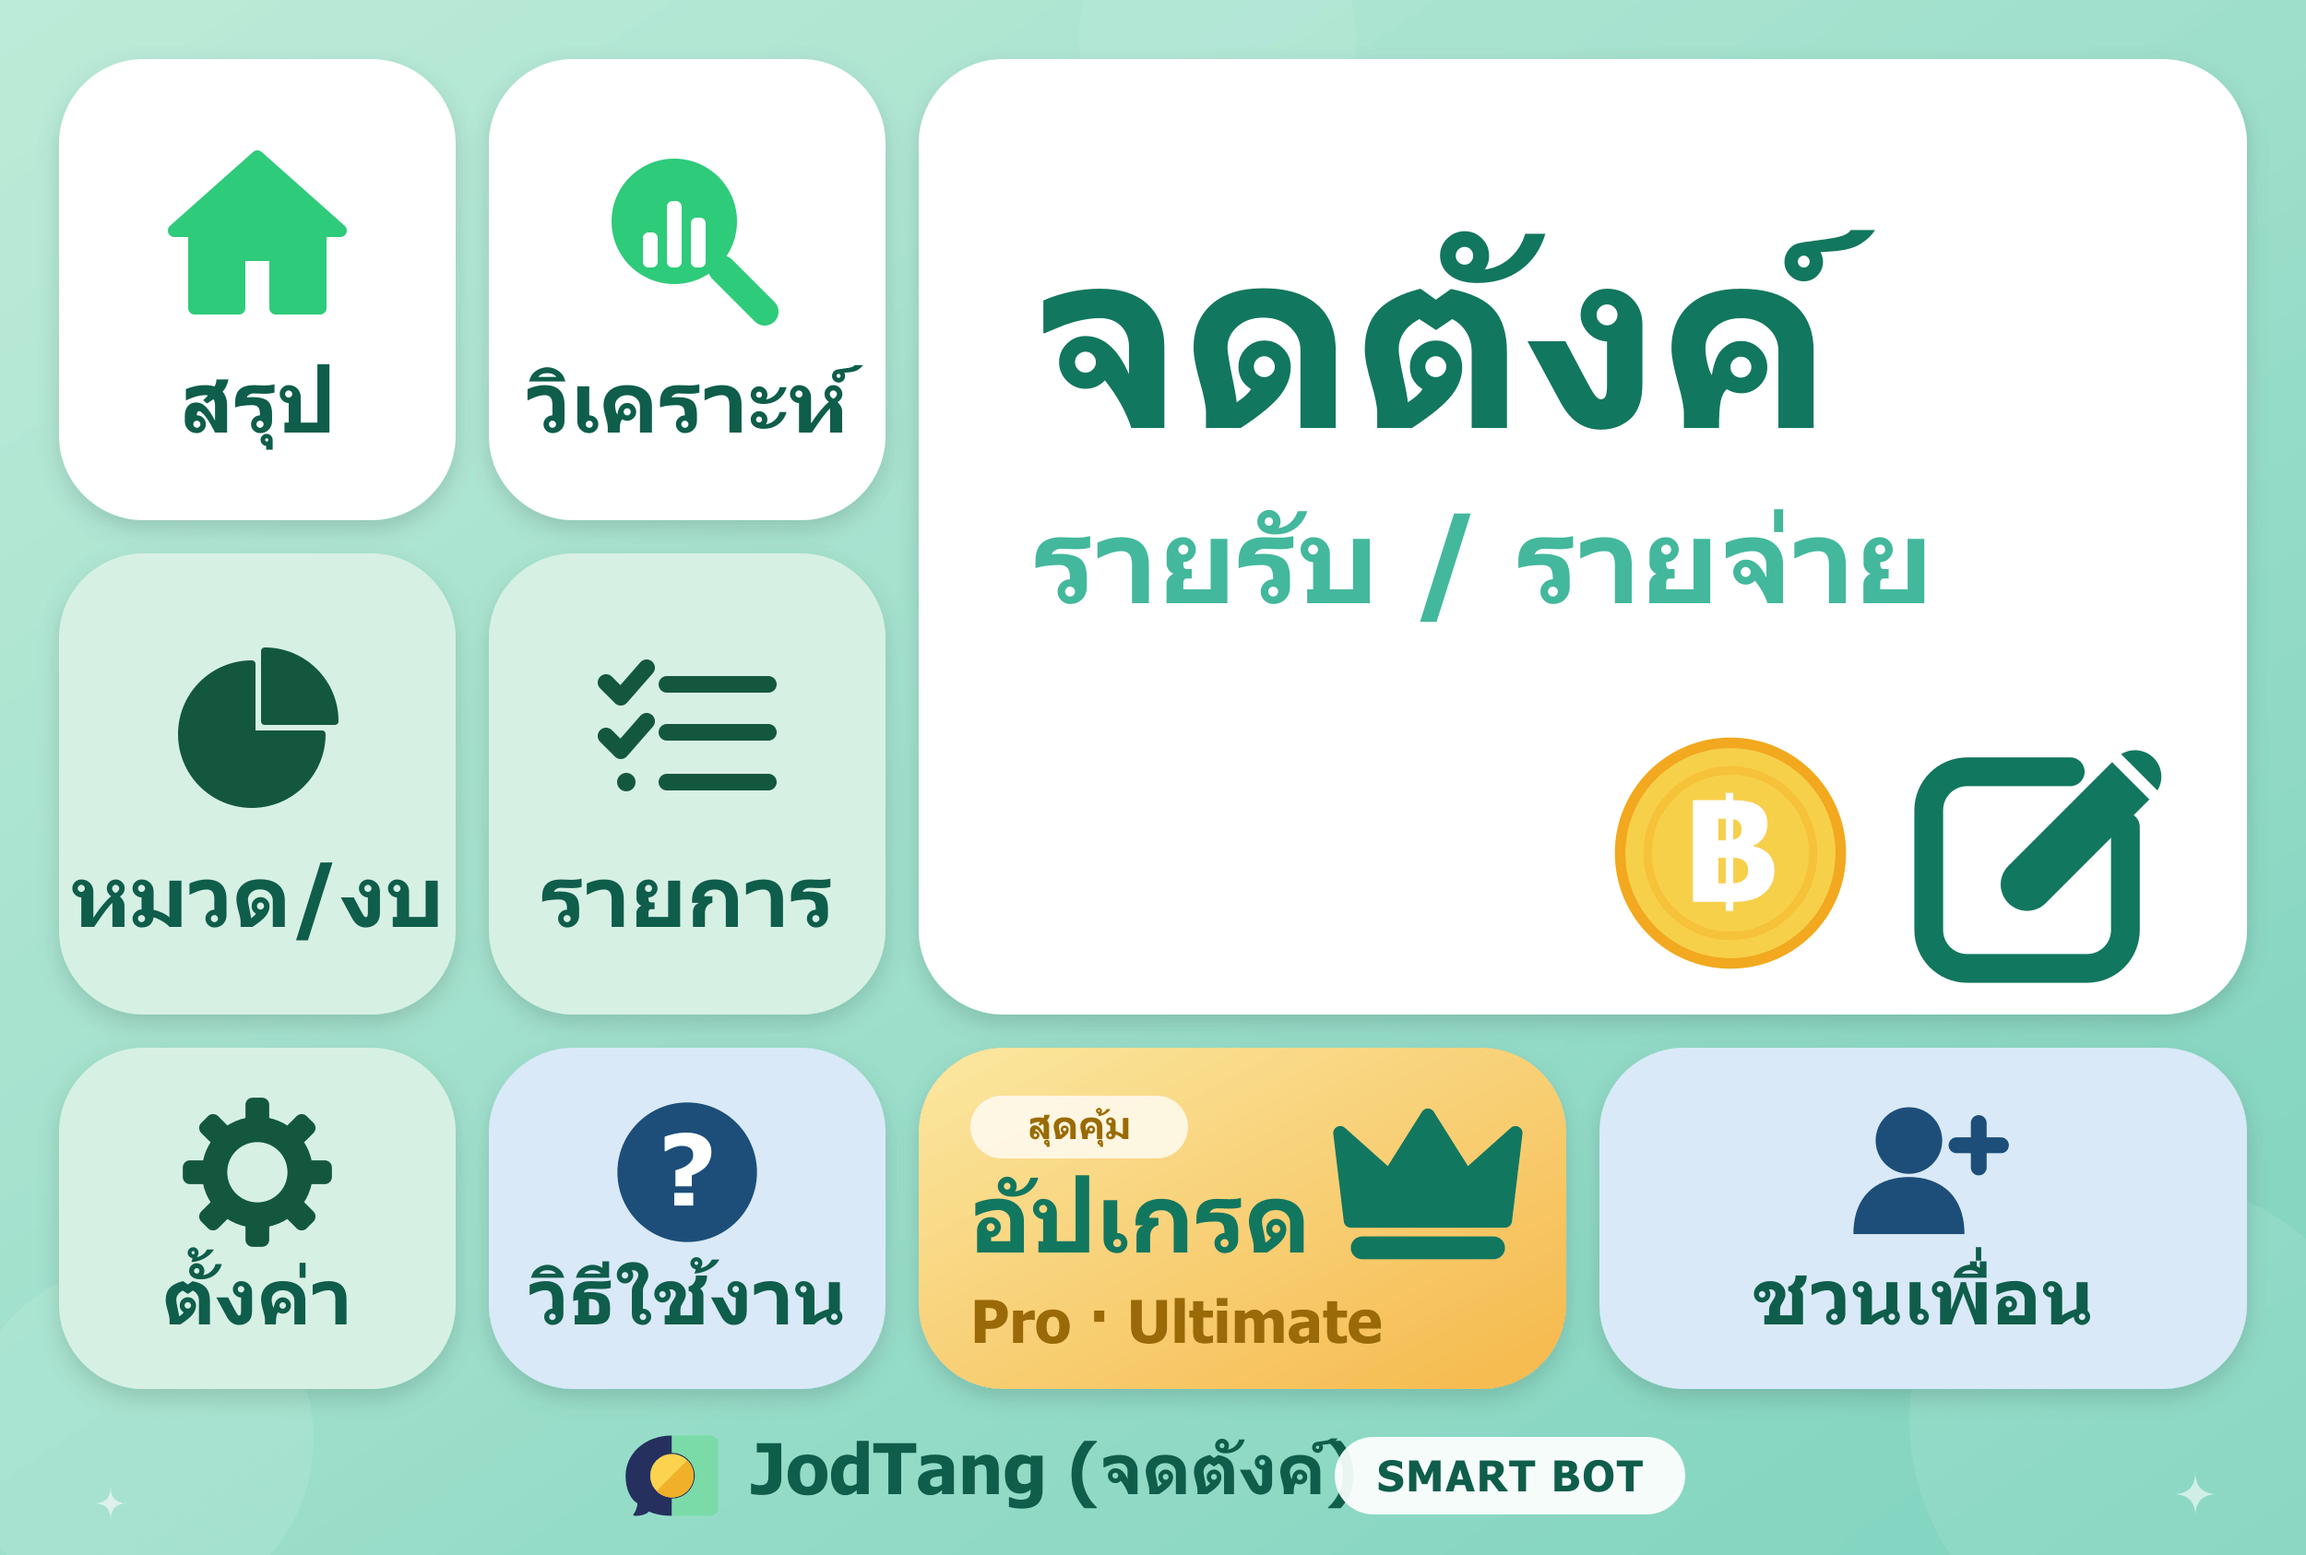
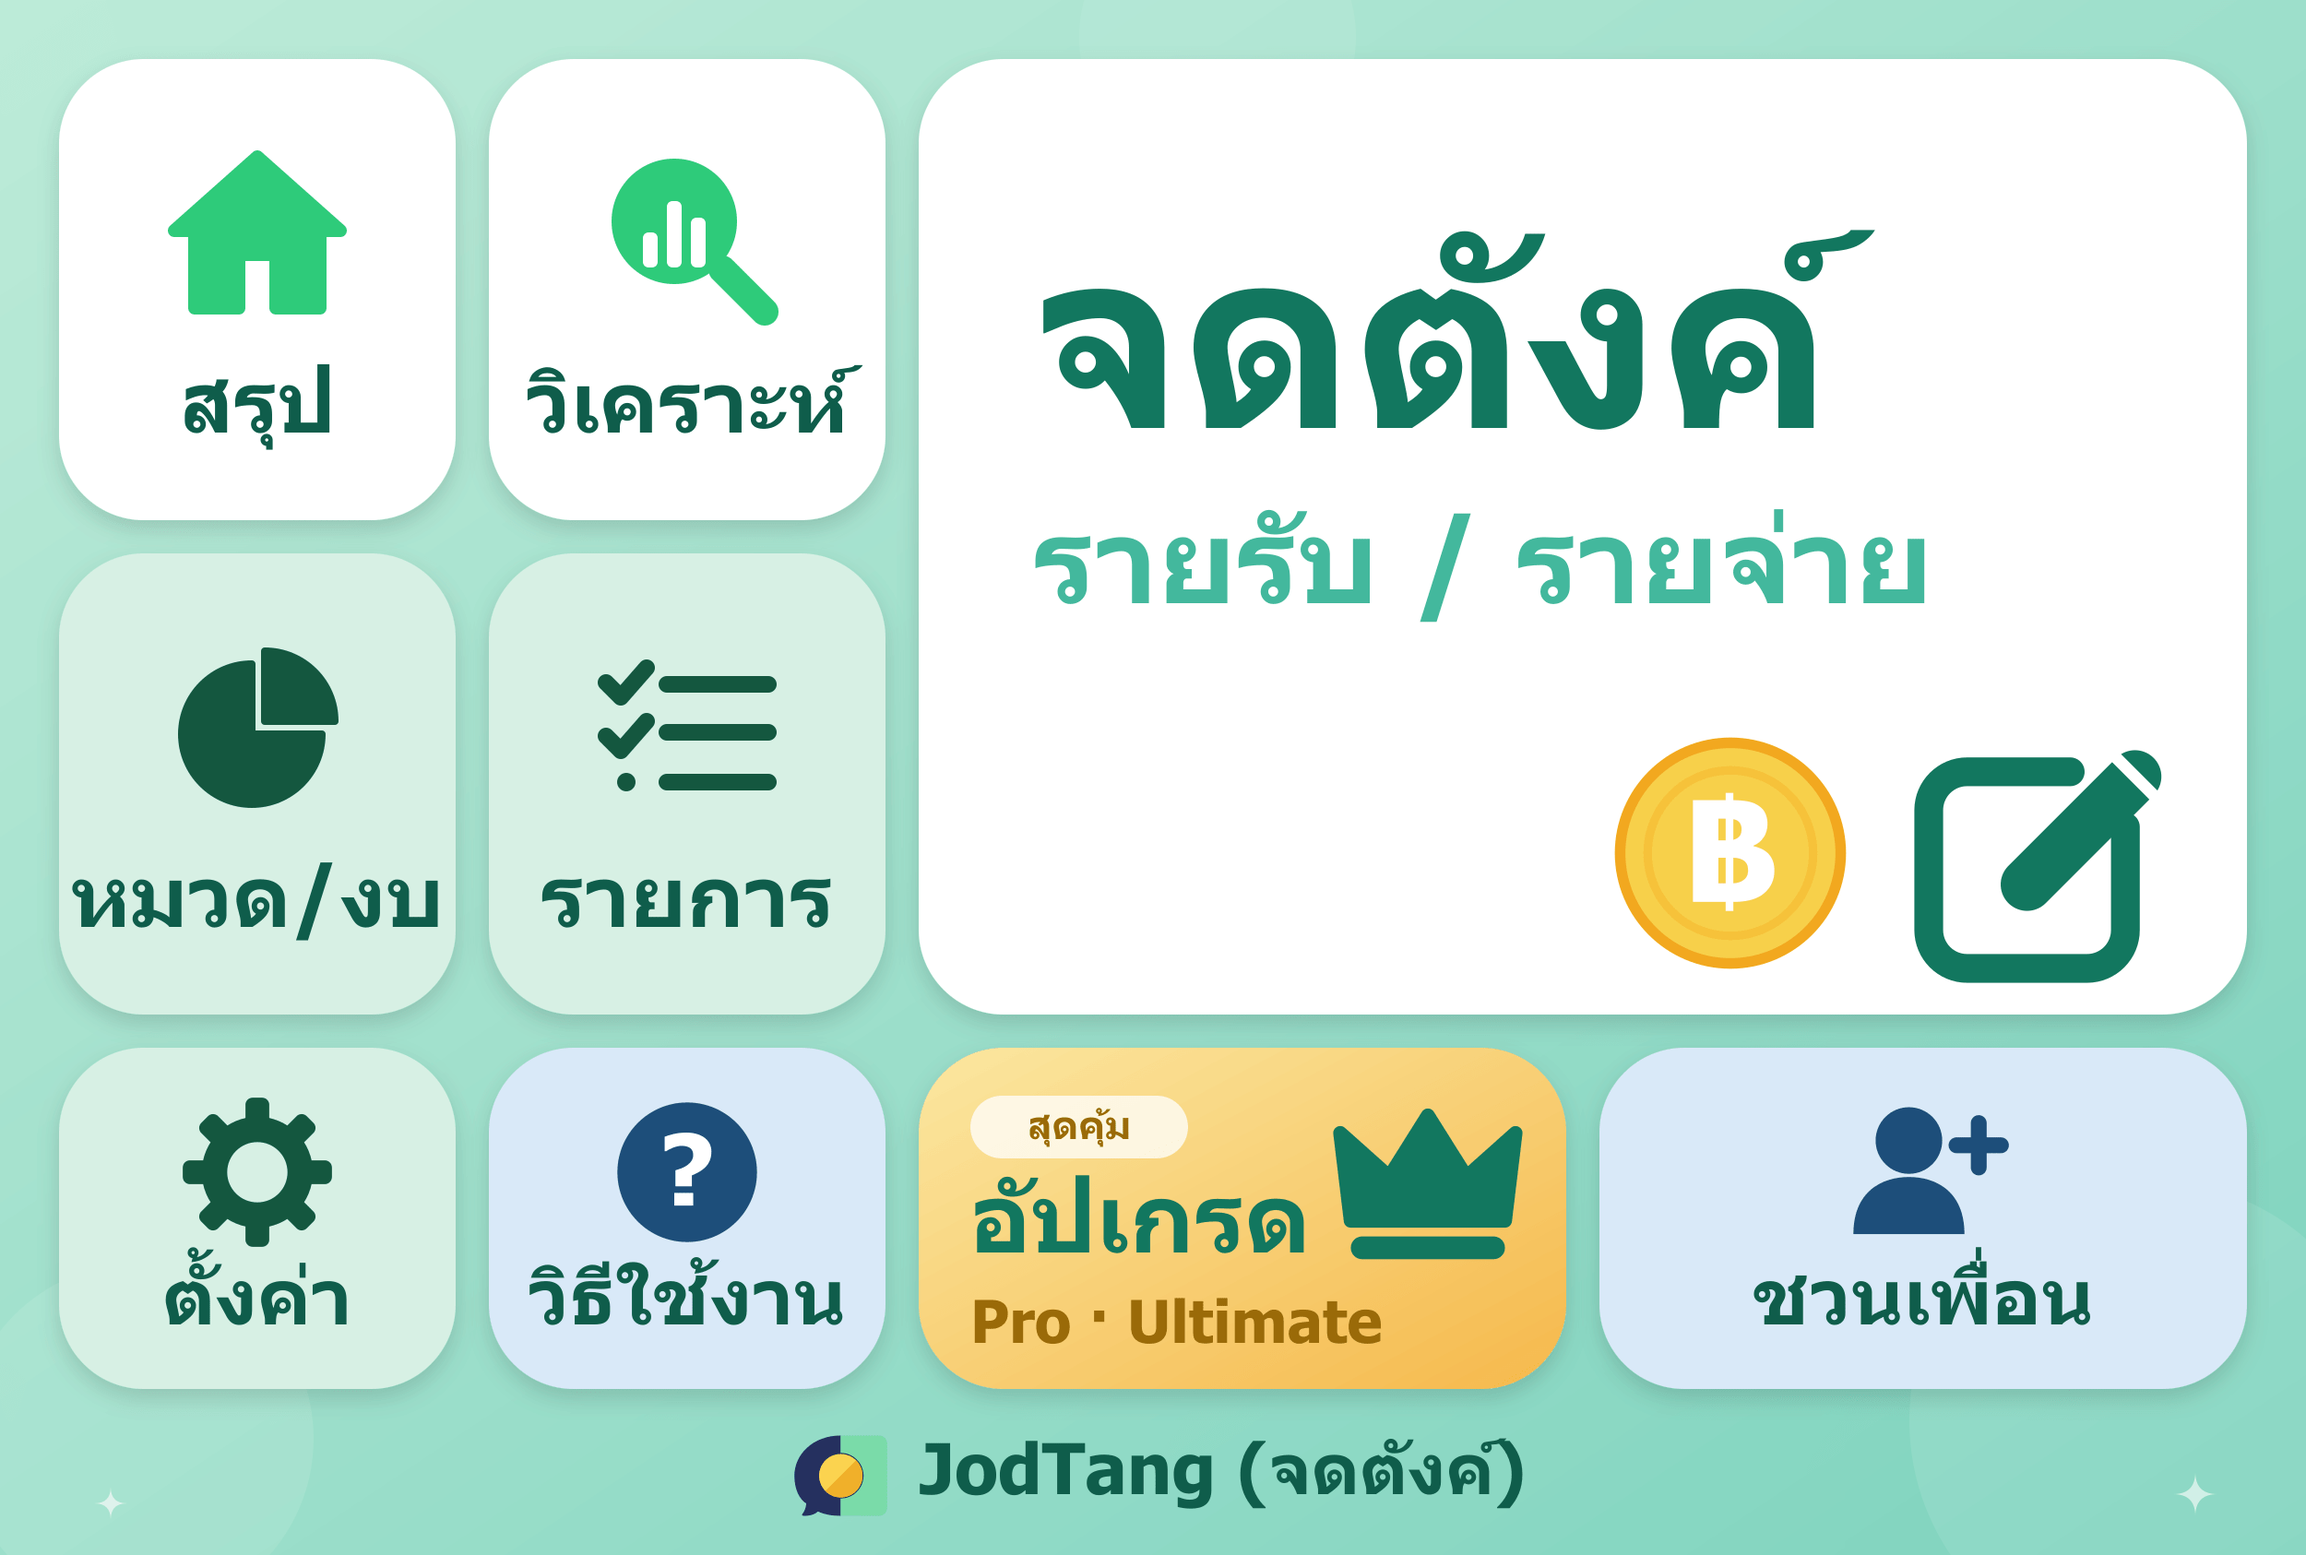
fix(richmenu): drop the SMART BOT pill from the menu image and centre the footer
The image is re-rendered; run 'pnpm richmenu --replace' to publish it.

Changed region(s): [[0.2496, 0.9253, 0.7488, 0.987]]

diff --git a/scripts/richmenu-design.ts b/scripts/richmenu-design.ts
@@ -254,11 +254,9 @@ export function buildRichMenuSvg(): string {
     small("invite", C.skyTile, "invite", "ชวนเพื่อน", true),
   ];
   parts.push(
-    // footer: logo + name + pill, centred as one group
-    logoMark(672, 1544, 112),
-    `<text x="814" y="1620" font-family="${FONT}" font-size="76" font-weight="800" fill="${C.ink}">JodTang (จดตังค์)</text>`,
-    `<rect x="1447" y="1558" width="380" height="84" rx="42" fill="${C.white}" fill-opacity="0.92"/>`,
-    `<text x="1637" y="1617" text-anchor="middle" font-family="${FONT}" font-size="46" font-weight="800" fill="${C.ink}" letter-spacing="2">SMART BOT</text>`,
+    // footer: logo + name, centred as one group
+    logoMark(855, 1544, 112),
+    `<text x="997" y="1620" font-family="${FONT}" font-size="76" font-weight="800" fill="${C.ink}">JodTang (จดตังค์)</text>`,
     spark(2380, 1620, 24, 0.6),
     spark(120, 1630, 18, 0.6),
     "</svg>",
